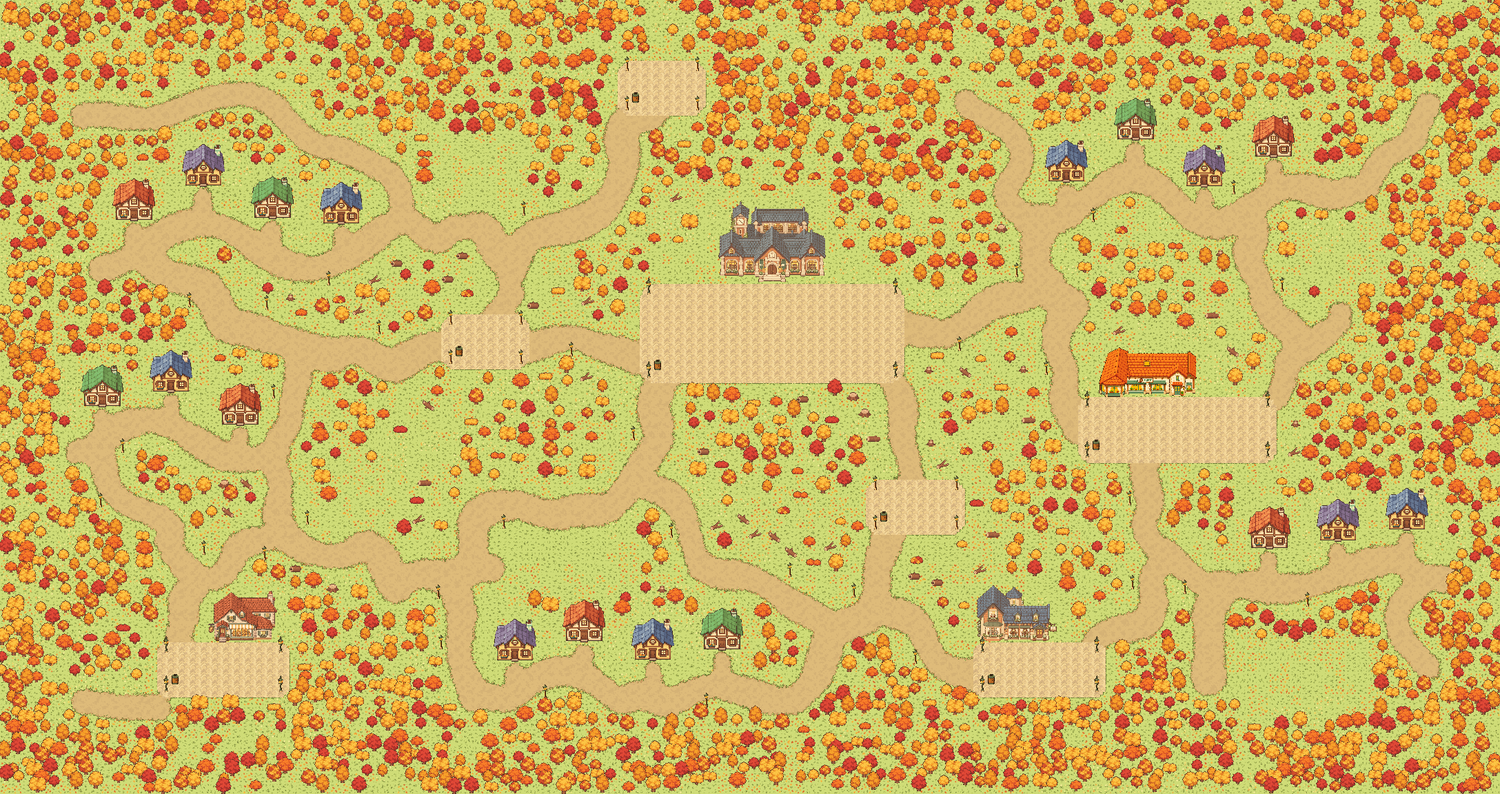
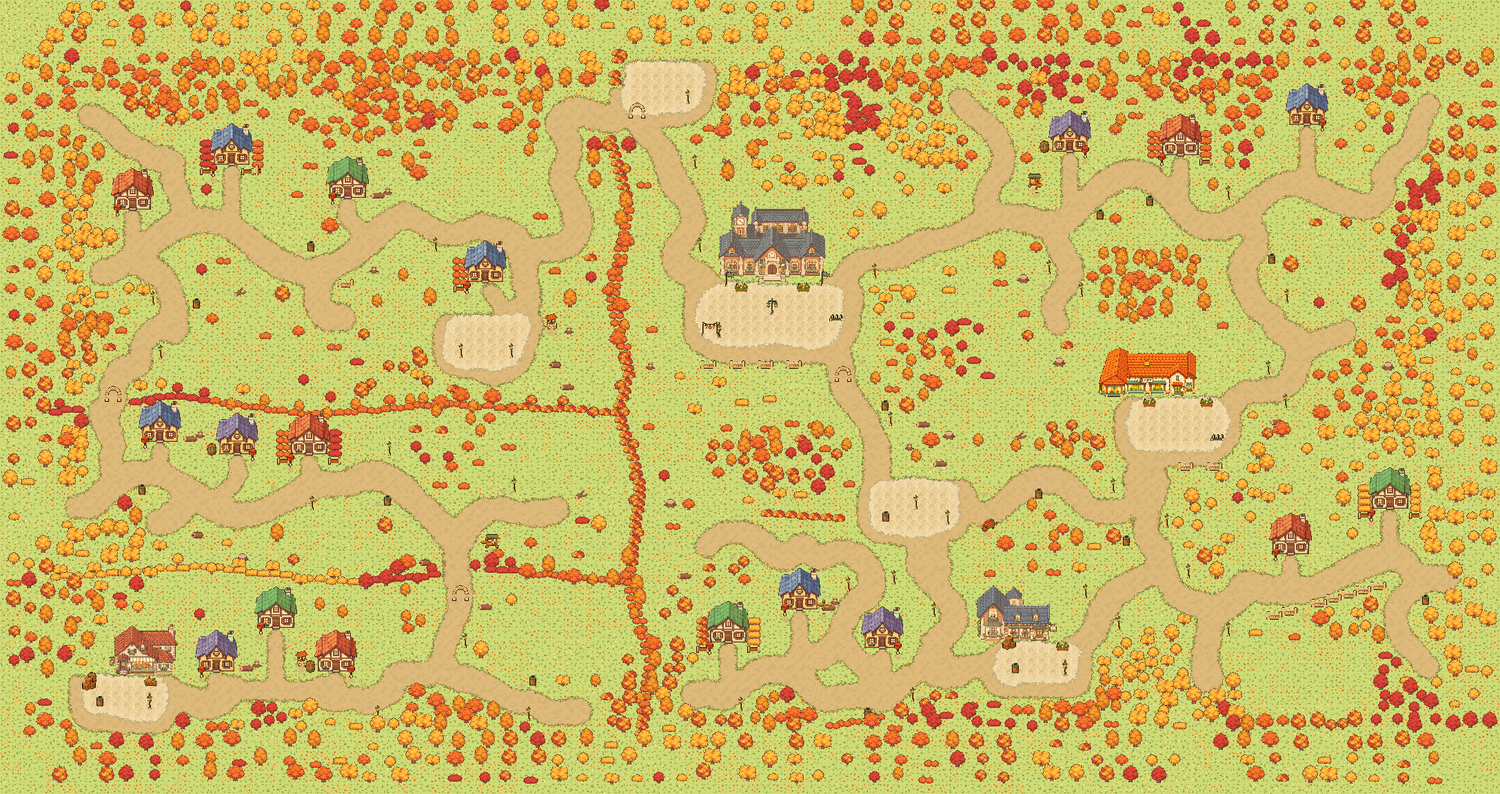
Docs: the polish pass (numbers, new rules, ambient, measured, what is still weak) and the new overview beside the first
Claude-Session: https://claude.ai/code/session_01AYnvDD8wfvRrMANqYiR2z4

diff --git a/docs/study/town.md b/docs/study/town.md
@@ -1,17 +1,19 @@
 # The town (the world, web)
 
 An open-air autumn town in the lofi.town spirit: **136 x 72 ground tiles = 4352 x 2304 art px, about 10 x 8.7 screens** at the library's zoom, narrow tan paths
-winding between a grand library, a cafe, a bakery, a bookshop, 18 cottages in five neighbourhoods, three groves, five viewpoints and a forest at the edge.
+winding between a grand library, a cafe, a bakery, a bookshop, 18 cottages (five streets, a courtyard with a well, one house tucked in a grove), three groves, five viewpoints and a
+forest that thins from the edge. Hedge rows and walls of trees divide it into districts that are joined only at gates, so the way from the library to the bakery is a 79 second walk.
 Web only, dev page only: `/study/town/dev` (404 in a production build, as `/study/library/demo` is, unless the build had `NEXT_PUBLIC_TOWN_DEV=1`, see
-"Measured"). `src/components/landing/cafeScene.ts` keeps the homepage's deterministic hash (`scratchpad/mv/hero-det2.js`, 4 viewport modes): identical to base.
+"Measured"). `src/components/landing/cafeScene.ts` keeps the homepage's deterministic hash (`scratchpad/mv/hero-det2.js`, 4 viewport modes): identical to base (not touched in the polish pass either).
 
 This replaces the first district (a rectangular path ring with houses beside it; the founder: "I don't like that"). Its engine, movement, sit-spot model and
-art are kept; its blueprint, ring and edge-piece autotiler are gone.
+art are kept; its blueprint, ring and edge-piece autotiler are gone. **The polish pass** (this file's "Polish pass" section) answered the founder's review of the first full map:
+a soft forest edge, a dressed meadow, small plazas, no blobs, staggered houses, a longer walk, ambient life, a faster raster path, a quicker first load.
 
 ```bash
 npm run town:build     # tools/town/world.json + art -> public/town/v1/ (refuses to write a map the validator rejects)
-npm run town:test      # 34 tests (the place machine included), node:test via tsx, no browser
-npm run dev            # then /study/town/dev?bots=4   (?body=fox|capybara|...|person  ?debug=1  ?furniture=0  ?map=0  ?hz=30|60|auto)
+npm run town:test      # 49 tests (the place machine and the ambient layer included), node:test via tsx, no browser
+npm run dev            # then /study/town/dev?bots=4   (?body=fox|capybara|...|person  ?debug=1  ?furniture=0  ?map=0  ?hz=30|60|auto  ?tod=dawn|day|evening|night  ?backing=0.5..1)
 python3 tools/town/preview.py out.png 0.3     # a flat picture of the compiled map (material, building boxes, trees, spots) for editing the blueprint
 python3 tools/art/landmarks.py                # the grand library, bookshop and bakery cut from docs/study/art/source/*.webp
 NEXT_PUBLIC_TOWN_DEV=1 npm run build && npm start     # a production build that serves the dev page (measurement only; never set in a deploy)
@@ -21,12 +23,13 @@ NEXT_PUBLIC_TOWN_DEV=1 npm run build && npm start     # a production build that 
 
 | | |
 |---|---|
-| `tools/town/world.json` | The authored world: `seed`, size, bounds, landmarks (position, door, plaza), placeholder boxes, neighbourhood streets, groves, viewpoints, free junctions, loop count, bench and lamp spacing, plaza furniture, hubs, wood patches, furniture types. |
-| `src/lib/town/plan.ts` | The path planner (A*, cutting, spline, meander, material grid, run-length coding). |
+| `tools/town/world.json` | The authored world: `seed`, size, bounds, landmarks (position, door, plaza shape), placeholder boxes, neighbourhoods (street + houses with their own `x`, `lead`, `lane`, `garden`), courtyards, single houses, belts (hedge rows and walls of trees, with gates), groves, viewpoints, free junctions, loop count, `directness`, `widthCap`, `forest` numbers, bench and lamp spacing, plaza furniture and dress, hand placed dress, hubs, wood patches, furniture types. |
+| `src/lib/town/plan.ts` | The path planner (A*, cutting, spline, meander, material grid, run-length coding), belts as obstacles, plazas with an apron, the distance-field width clamp. |
 | `src/lib/town/worldgen.ts` | `compileWorld`: the generator. Deterministic from `seed`. |
 | `src/lib/town/ground.ts` | The per-pixel ground painter (ragged edges), shared by the engine, the overview and the tests. |
 | `src/lib/town/validate.ts` | The validator `town:build` and the tests assert. |
-| `src/lib/town/objects.ts` | Trees, bushes and logs live in the JSON as numbers (`scatter`); `allObjects(d)` expands them. |
+| `src/lib/town/objects.ts` | Trees, bushes, logs, belts and dressing live in the JSON as numbers (`scatter`, flag 0 wood, 1 treeline, 2 belt, 3 dress); `allObjects(d)` expands them. |
+| `src/components/town/ambient.ts` | Falling leaves, chimney smoke, the hour's tint and the lamp glow (code drawn). |
 | `src/lib/town/place.ts` | `Place = town \| interior(id)`, the state machine for doors. |
 | `src/lib/town/{types,rng,movement,collision,nav,chunks,world}.ts` | As before (see below), `nav.ts` now has a typed-array A*. |
 | `src/components/town/{TownEngine.ts,TownDev.tsx,TownInterior.tsx,Minimap.tsx,town.css}` | The canvas engine, the dev page, the room behind a door (lazy chunk), the map and hubs. |
@@ -59,48 +62,67 @@ Integer scale `k = round(device width / want)`, `want` 400 art px (240 under 560
 
 ## The generator (`worldgen.ts`, `plan.ts`)
 
-1. **Landmarks and placeholders** are placed at the blueprint's tile positions; each landmark gets a paved plaza in front of its door (its top edge at the sprite's bottom,
-   centred on the door, rounded corners). Buildings and placeholder boxes are obstacles.
-2. **Neighbourhoods.** Each has a `street` (control points, west to east) that the planner makes meander, and a list of houses. Houses stand NORTH of the street
-   (the art's doors face south), `gap` tiles apart, 2.1 tiles back from the street's edge, each with a spur (a 1.6 tile path) from its door to the street.
-   Only a house north of an east-west stretch can have its door on a path, so a street should run roughly east-west.
-3. **The network.** Nodes: plaza centres, street ends, groves, placeholder fronts, free junctions (`hubs`). A minimum spanning tree (Kruskal, edge weight = distance with a seeded
-   wobble, streets pre-joined), then `loops` more edges: the pairs whose network distance is longest relative to the crow flies (ratio over 1.4). Each edge is routed by
-   **A\* on the 1 tile grid** (8 neighbours; cost 1 + 1.6 x a seeded smooth noise, so it wanders; 0.45 on existing path, so it merges; obstacles dilated by 2.2 tiles, the
-   map edge by 6). A route that runs along the existing network is **cut**: only the off-network stretches become edges, each starting and ending on the network (a clean T).
-   The stretch is decimated, run through Catmull-Rom, then a **sine meander** across the line (amplitude 0.8 to 1.8 tiles, wavelength 12 to 20, tapered 4 tiles at each
-   end, switched off where it would reach an obstacle): gentle S-curves, no long straight run. Then **dead-end footpaths** to the viewpoints (a bench with a view).
-4. **Material.** Every sample stamps a disc (half width 1.1 to 1.6 tiles, varying slowly: 2.2 to 3.2 tiles wide) into an 8 px grid (0 grass, 1 path, 2 plaza), plazas last.
-5. **Furniture.** Plaza sets from the blueprint; plaza edges (benches facing in, a lamp at each corner, a bin); along every path a bench every 8.5 tiles on alternating sides
-   facing the path, and every 15 tiles on trunks and streets a lamp with a bench beside it; a bench, a planter and a lamp at every cottage; two benches at each viewpoint.
-6. **Trees.** Path-side trees first (sparse, golden, 1.6 to 4 tiles back), then the forest: a density that is full at the map border (13 tiles), clumps inland from a
-   seeded noise, and nine `woodPatches` that close the meadows between paths. Bushes behind houses, logs and bushes 36 to 150 px from the paths. A decoration treeline
-   outside the walkable bounds (it does not block; the bounds do). Blocking trees keep 24 px between footprints, 74 px from a building's foot, off doors, paths and plazas.
-7. **Healing.** Sealed pockets of walkable cells are removed by deleting the tree that closes them (0 needed in the committed map).
-8. **Output.** Hubs (Library, Cafe, Bakery, Bookshop, Plaza, Park: a walk-to point and a ring of five teleport points), bot routes (nodes every 6 tiles along every path),
-   the material grid run-length coded, sit spots with registry ids.
+1. **Landmarks, placeholders, belts.** Landmarks and placeholder boxes are placed at the blueprint's tile positions; each landmark gets a paved plaza in front of its door (its top edge at the sprite's
+   bottom, centred on the door). **Belts** (`belts`: a polyline from one end on the map edge or on another belt to the other, with `gates`) are obstacles for the planner, open only 3.4 tiles round each gate.
+2. **Plazas** are a rounded rectangle whose paved edge wanders (a seeded noise, up to `rag` tiles, the top band against the building stays straight) with a **worn dirt apron** `apron` tiles wide
+   round it. The library's is 14 x 6 (round 2.6), the cafe's 9 x 5, the bakery's and bookshop's 8 x 4 (it was 24 x 9, 18 x 6 and 12 x 5).
+3. **Houses.** A neighbourhood is a meandering `street` and houses NORTH of it (the art's doors face south), each with its own `x`, `lead` (the front yard, the spur's length, 0.4 to 3.2 tiles), an optional
+   `lane` (the spur bends sideways) and `garden` (a fence along the front with a gap where the spur comes through, hedges at the sides, a mailbox at the gate). The house stands clear of the street's top edge
+   along its whole width (the street wanders). **Courtyards** (`courtyards`): two houses flank a lane, one stands behind it, a well beside the middle one's spur; every door faces south onto the lane, and
+   the cluster is joined to the network by the lane's node. **Single houses** (`singles`) are placed first and their spur is routed to the nearest path afterwards. Doors face south only, so every house stands north of a path;
+   the layout copes by giving each a different spur (a yard on the street, a set back house, a lane, a courtyard, a house up a side path) and by never putting a house south of what it opens onto. Colours never repeat in sequence.
+4. **The network.** Nodes: plaza centres, street ends, groves, placeholder fronts, belt gates, courtyards, free junctions (`hubs`). A minimum spanning tree (Kruskal, edge weight = distance with a seeded
+   wobble, streets pre-joined; a pair a belt closes is skipped and another pair joins the pieces), then `loops` more edges (the pairs whose network distance is longest relative to the crow flies), then a
+   **directness pass**: for the hub pairs (library, cafe, bakery, bookshop, park) that no belt separates, a pair whose path is more than `directness` (1.35) times the crow flies gets a path of its own
+   (A* with the existing network dear, so it does not hug the winding one). Each edge is routed by **A\* on the 1 tile grid** (8 neighbours; cost 1 + 1.6 x a seeded smooth noise, 0.45 on existing path;
+   obstacles dilated by 2.2 tiles, eased to 1.5 then 1.0 in a tight corner; the map edge by 6). A route along the existing network is **cut** (only the off-network stretches become edges, a clean T; no route
+   joins a spur within 2 tiles of its ends, so a trunk never ends under a door). The stretch is decimated, run through Catmull-Rom, then a **sine meander** across the line (amplitude 1.0 to 2.2 tiles,
+   wavelength 12 to 20). Then **dead-end footpaths** to the viewpoints.
+5. **Material.** Every sample stamps a disc (half width 1.05 to 1.35 tiles: 2.1 to 2.7 wide) into an 8 px grid (0 grass, 1 path, 2 plaza). **Belts are carved** (any path cell on a belt tile but not at a gate goes), then
+   **the distance-field clamp** (`clampWidths`, cap 1.65 tiles): the inscribed radius of every path cell is found (exact distance transform); a cell under a disc of radius T (the biggest inscribed disc that covers it, found from the
+   local maxima of the distance, the medial axis) is kept only if it is at least T minus the cap deep, so a junction blob is trimmed to a band 3.3 wide round its spine, a neck that joins a thin path to the blob stays, and
+   everything thinner than the cap is untouched; specks of fewer than 14 cells go. 14 blobs over 3.2 tiles in the first map, 5 now; the widest anywhere is 3.75 (the validator's cap is 3.8).
+6. **Belt visuals and what blocks.** A belt is drawn as bushes every 17 to 31 px (closer along a vertical run, the bushes are wide and shallow) with trees over them (a wall of trees every 30 to 60 px, a hedge row one in 70 to 100),
+   its colour family changing every 14 tiles (gold, amber, mixed, a stretch of red), open where a path crosses. **What blocks is a continuous strip of 16 px squares every 8 px under it** (`walls` in the data, 630 of them):
+   the drawn bushes are shallow, a vertical row of them would leave gaps a walker slips through. A strip square is left out where a path or a plaza is. A gate with a vertical path gets a stone arch
+   (two slim pillars of collision), one with a horizontal path a signpost.
+7. **Furniture and incidents.** Plaza sets and edges (benches facing in, lamps at the bottom corners, a bin; the way in at a path's mouth is kept clear, `lanePts`), plaza dress from the blueprint (`plazaDress`: relative to
+   the door's entry), benches along every path (one in 6.6 tiles, a bin or a lamp beside 5 in 10), a lamp with a bench every 15 tiles. **Incidents** (all existing sprites): gardens' fences, hedges and mailboxes,
+   a mailbox at every cottage, a planter, a lamp, a bench, a log pile or a barrel by each door, wells at the courtyard and the Quiet Grove, the apple cart at the orchard, stone wall runs along level path stretches
+   (the art is front on: a wall only runs left to right; vertical runs would need art), hedge rows along others, a low wall along the library's and cafe's plaza, flags at the library, string lights, bike racks,
+   barrels, crates, planters by the shop doors, **noticeboards and signposts at the 4 most separated junctions** (routes that end on another path). Props go on the grass, never on dirt; where one does not fit it moves to the nearest free
+   spot within a few tiles or is dropped (4 of the plaza's are, counted in `notes.dressMissed`).
+8. **Worn ground** (`worn`: x, y, radius, 95 of them): dirt showing through the grass at every cottage door, at most benches and at the noticeboards, wells and the cart.
+9. **Trees.** A density that is dense in a belt of 4.5 tiles at the very edge (the walkable edge; the decoration treeline is outside it), falls smoothly to nothing by 12 tiles, with clumps and
+   clearings in the gradient (value noise) and inland clumps. A tree is dropped unless its canopy ellipse (twice as wide as tall, scaled by the sizes) is clear of the others (dense 1.06 times their radii apart, down to
+   0.86, so canopies touch but are not a carpet) as well as the trunks being 24 px apart; size follows density (large where it is thick, medium and bushes at the fringe). **Colour**: a low frequency noise
+   makes groves of one family (gold 40 percent, amber 26, mixed 16, gold again), a high one a few red maple groves, with 10 to 14 percent contrast trees. The decoration treeline outside the bounds is three staggered
+   rows 0.9, 2.4 and 3.9 tiles out (it does not block; the bounds do). Blocking trees keep 24 px between footprints, 74 px from a building's foot, off doors, paths and plazas.
+10. **Healing** removes the tree that closes a sealed pocket (never a belt: that is a build error; 0 in the committed map).
+11. **Output.** Hubs, bot routes, the material grid run-length coded, the walls, the worn discs, sit spots with registry ids.
 
-`seed` (20260925) and the blueprint are committed, and so is the generated output (`public/town/v1/town.<hash>.json`); a test rebuilds from the seed and compares bytes
+`seed` (20260925, kept: the layout is better by design than by seed) and the blueprint are committed, and so is the generated output (`public/town/v1/town.<hash>.json`); a test rebuilds from the seed and compares bytes
 (another seed gives other paths). To change the town: edit `tools/town/world.json`, `npm run town:build`, `python3 tools/town/preview.py`, look.
 
 ## Ground rendering (`ground.ts`)
 
 The authored edge pieces only fit straight runs (no T, no end cap, no curve), so paths are cut in code. Per pixel: the material grid's coverage blurred 3 x 3, sampled
 bilinearly, plus a seeded noise (a hash at 1 px and a value noise at 5 px), thresholded at 0.5: **soft tufty edges that wander about 5 px each side of the 8 px cell
-outline**. Fill: grass from the atlas's grass tiles (flowers in drifts where a value noise is high, leaves within 3 tiles of a tree, a flip or transpose by hash), path from the atlas's
-dirt tiles **lifted 55% toward the reference's pale tan** (238, 214, 150), plaza from the one clean herringbone tile (`plaza_01`) lifted 50% toward (244, 228, 184), straight cut. A rim:
-the path's outermost pixel in the dirt's own darker tone, grass tufts (a dark green) on the grass side of the edge and the odd one two pixels out. Blocks of 8 x 8 px
-whose neighbourhood is all grass or all one solid material skip the per pixel test. A chunk takes about 30 ms to paint (node), so the engine paints the chunks the camera is about to need
+outline**. **The paving's edge is ragged too** (a second coverage, the plaza's alone, thresholded with the same noise: paving against dirt apron wanders, it is no longer a straight cut). Fill: grass from the atlas's grass tiles (flowers in drifts where
+a value noise is high, leaves within 3 tiles of a tree, a flip or transpose by hash), path from the atlas's dirt tiles **lifted 55% toward the reference's pale tan** (238, 214, 150), plaza from the one clean herringbone tile
+(`plaza_01`) **lifted 62% toward (244, 228, 184) in the middle of the paving and 86% at its edge** (a distance transform of the paving fades it toward the dirt), with **a stone coloured border pixel** round it. A rim: the path's outermost pixel in the dirt's own darker tone, grass tufts
+(a dark green) on the grass side of the edge and the odd one two pixels out. **Worn ground**: discs from the data (`worn`), each a dithered mix of grass toward a dirt tone (more toward the middle, noise in the edge), per tile lists so a pixel
+tests two or three discs at most. Blocks of 8 x 8 px whose neighbourhood is all grass or all one solid material skip the per pixel test. A chunk takes about 30 ms to paint (node), so the engine paints the chunks the camera is about to need
 **one 64 row slab a frame** (about 3 ms; the cache holds 12), and only an unpainted chunk in view is painted at once (after a teleport, behind the fade). Chunks are still
 blitted scaled, no per frame cost.
 
 ## Navigation and A*
 
 The whole map is 272 x 144 navigation cells (39k). `nav.ts` has its own typed-array A* (octile heuristic, buffers reused, a diagonal needs both orthogonals open) and string-pulls the
-result over the 8 px cells as before. A walk across the map expands about 1.1k to 1.3k nodes (a unit test counts them; random bot-node pairs: at most a few thousand); warm it
-takes 0.3 to 0.5 ms and the whole `plan` (A* + pulling) 3 to 5 ms; no hierarchical step is needed. A walk is up to 400 points (`PATH_CAP`). **Walking time** library plaza to the bakery's: 28 s straight
-across the meadows and woods (1960 px), **47 s following the paths** (3270 px): the founder asked for 60 to 90; with grass walkable the shortcut is real. Making it longer means
-denser woods between districts (`woodPatches`) or a farther bakery; a click-walk takes the straight way.
+result over the 8 px cells as before. A direct walk across the map expands about 200 to 1.3k nodes (0.3 to 1 ms); **a walk the belts force the long way round (library plaza to bakery plaza: 17k of the 39k cells, cafe to bakery 22k) takes 18 to 32 ms warm in node**, a one-off hitch at a click (two dropped frames): the next step, if it is felt on a device, is a hierarchical A* over the districts (the gates), not a weight (weighted A* was measured and does not help here: 66k expansions with re-expansion for cafe to bakery). A walk is up to 400 points (`PATH_CAP`). **Walking time** library plaza to the bakery's: **79 s following the paths** (was 47) and 65 s by the shortest way the belts leave (was 28 s straight across the meadows), through the north gate, along Orchard Row, down the far west gate and east
+along the second terrace to its gate and back west to the bakery. The brief's "shortcuts at least 1.5 times slower than the path or blocked" cannot hold as a ratio of times (a route over grass is never longer than the paths it may leave, so the
+shortcut is never slower than the path); what is measured is the other way round: **the path takes at most 1.39 times the shortest walk for every one of the 15 hub pairs (mean 1.17)**, and for the pairs a belt separates 1.18 to 1.25
+(the walk is the path, the belts leave no shortcut); validator rule `ROUTE_RATIO_MAX` 1.5.
 
 ## Doors and interiors (`place.ts`, `TownDev.tsx`, `TownInterior.tsx`)
 
@@ -131,61 +153,96 @@ rectangle (WebKit risk), checked **pixel identical in Chromium over 360 random c
 point and a mask costs a second pass per person). `tools/movement/measure.mjs`: 0 scored failures for the library, the cafe (`--room cafe`), `--dpr 2` and `--me fox`.
 You are drawn again, see-through at 42%, on top of whatever covers you (a roof, a wall, a canopy), so you are never lost behind a house or a tree.
 
-## Data format (`public/town/v1/town.<hash>.json`, `TownData` in `types.ts`, version 2)
+## Data format (`public/town/v1/town.<hash>.json`, `TownData` in `types.ts`, version 3)
 
 * `mat {cols, rows, rle}` the material on an 8 px grid, run-length coded `[value, run, ...]`, row major (0 grass, 1 path, 2 plaza); `tiles` the atlas indices the painter uses; `groundCols`.
 * `objects[]` `{id, kind, sprite, x, y, sortY, sx, sy, block, foot, zone?, door?, type?, ph?}` for buildings, furniture, props and placeholders. `door {kind: library|cafe|bakery|bookshop|cottage, rect, entry, trigger, label}`.
-  `scatter {names, v}`: trees, bushes and logs as `[name, x, y, treelineFlag]` numbers (`allObjects` expands them; the flag marks the decoration treeline, which does not block).
+  `scatter {names, v}`: trees, bushes, logs, belt pieces and dressing (lamps, fences, mailboxes, walls...) as `[name, x, y, flag]` numbers (`allObjects` expands them; flag 0 wood, 1 decoration treeline which does not block, 2 belt, 3 dress); sprites with `solids` (the arch, the string lights) block with those rects, not one lump. `walls` flat `[x, y, w, h, ...]` the strip under every belt, `worn` flat `[x, y, r, ...]`.
 * `sprites{}` the used sprites with atlas rects, anchors, `foot`, `block`, `roof`, `door`, `step`, `entry`, `trigger`; atlases `ground|nature|cafe|cottage|landmark|props`.
 * `spots[]` `{id, key, object, at, stand, face, pose, depth, zone}` as before; `paths[]` the centre lines (px) with kind (trunk, street, spur, foot) and mean half width (tiles); `plazas[]`; `hubs[]`;
   `botNodes`/`botLinks`; `zones`; `placeholders`; `spawn`; `stats`.
 
-Size: the JSON is 188 KB (gzip 45 KB; 2500 objects: trees are numbers). Atlases over the wire (gzip): ground 29 KB, landmark 44, cottage 13, cafe 11, nature 10, props 17, premade people 24: the town's own files total about 190 KB.
+Size: the JSON is 164 KB (gzip 43 KB; 1994 objects, 1276 of them trees: trees, bushes and props are numbers; it was 188 KB and 45 KB). Atlases over the wire (gzip): ground 29 KB, landmark 44, cottage 13, cafe 11, nature 10, props 17, premade people 24: the town's own files total about 190 KB.
 
 ## Validator (`validate.ts`; `town:build` refuses a map it rejects; the tests assert on the real map)
 
 Spawn free; every door's entry reachable from the spawn and standable (22 doors); **the path network (path and plaza cells) is one connected piece**; no sealed pocket of more than 4 open
-navigation cells (0); no footprint on a path or plaza cell (trees, bushes, logs, buildings: 0); **every path 2 to 3.5 tiles wide** at every sample that is not within 3.6 tiles of another path,
-a plaza or an end (the sampled range in the committed map is 2.0 to 3.5); **no 12 tile stretch within 0.4 tiles of its chord** (the least is 0.57) and no turn over 100 degrees within 3 tiles (the sharpest is 57);
-every door has path at its entry; blocking objects keep 24 px apart; cottages 3 tiles apart; every sit spot has a stand point that fits, is reachable and within 64 px of the seat; **at least 120 spots at 1.5 to 2.5 a screen**
-(191 spots, 2.17 a screen); ids and keys unique. It can fail (tests seal a door in and cut the network with a ditch).
+navigation cells (0); no footprint on a path (dirt) cell, and none of a tree, bush, log or building on paving (0; an arch straddles its path on purpose); **every path at least 1.9 tiles wide** (the march along the normal, away from other paths
+and plazas) **and, new, at most 3.8 tiles wide ANYWHERE, junctions and bends included** (the inscribed diameter from an exact distance transform, everywhere but within 3.2 tiles of a plaza; the committed map's widest is 3.75);
+**no 12 tile stretch within 0.25 tiles of its chord** (the least is 0.29; it was 0.4 until the direct paths, which are meant to be direct) and no turn over 100 degrees within 3 tiles (the sharpest is 79);
+every door has path at its entry and **a clear apron** (nothing within 12 px either side and 10 to 24 px in front of its entry); blocking objects keep 24 px apart (belt pieces are exempt: they are continuous on purpose; dressing is exempt);
+cottages 3 tiles apart (a courtyard's 1.5); every sit spot has a stand point that fits, is reachable and within 64 px of the seat; **at least 120 spots at 1.5 to 2.5 a screen** (139 spots, 1.58 a screen).
+**New, the route rules**: for every one of the 15 pairs of the six hubs the shortest walkable route (`Nav`) and the route along the paths only (a second `Nav` with the grass closed, same string pulling) must both exist, **the path may be at most
+1.5 times the shortest walk** (the metric `worstRouteRatio`; 1.39 now, it was 1.68 for library to bakery), and **library plaza to bakery plaza must take 60 to 90 s along the paths** (79 s; 70 art px a second). **New, the incident rules**: every prop a person
+should walk up to (noticeboard, mailbox, well, cart, signpost, planter, barrel, crates, bike rack, bin: 56 of them) has a standable, reachable cell within 40 px (`access`, 0 without). Ids and keys unique. It can fail:
+the tests seal a door in, cut the network with a ditch, take the belts away (the walk is short again and the ratio fails), swell a path into a blob, wall a noticeboard in and put a prop on a path.
 
 ## Measured
 
-Headless Chromium 1280 x 800, **production build** with `NEXT_PUBLIC_TOWN_DEV=1` (`next build`, then `next start`), 4 bots, software rendering (so CPU side draw times, not GPU). | | measured |
+Headless Chromium 1280 x 800, **production build** with `NEXT_PUBLIC_TOWN_DEV=1` (`next build`, then `next start`), 4 bots, software rendering (so CPU side draw times, not GPU). Scripts: `scratchpad/polish/{perf,heap,net3g,shots}.js`. | | measured |
 |---|---|
-| Draw ms, 60 s of walking across the whole map by minimap clicks (1x CPU) | **p50 0.20, p95 0.40, max 1.1**; 59 to 60 fps; 22 chunks painted (slab by slab). Before the slabs the max was 51.8 ms (a whole chunk in one frame). |
-| 4x CPU slowdown | draw p50 1.10, p95 2.10, max 5.9; first frame 1.7 s; the display delivered 30 to 60 fps (30 most of the time): the JS side is far under the 8 ms bar, so the governor stays at 60 and the 30 is the software raster under throttle, as the library's was. |
-| JS heap after a forced GC, start / after 60 s of walking | 5.60 / 6.64 MB (+1.0 MB; the chunk canvases and atlases are not JS heap). |
-| Time to first walkable frame, 1x | 490 to 900 ms after navigation start (578 in the final run), local server, production build. |
-| Fast 3G (CDP: 1.6 Mbit/s down, 562 ms latency, cache off) | **first walkable frame at 6.8 s**; 758 KB over the wire by then in 46 requests, of which the town's own files are about 190 KB gzip (json 45, landmark 44, ground 29, premade 24, props 17, cottage 13, cafe 11, nature 10); the rest is the study app's shell (CSS, fonts, JS chunks). The page is 33 KB; the whole load at 1x is 1.1 MB in 51 requests (it also prefetches the study app's other routes). |
-| Click-walk | A* across the map 0.3 to 0.5 ms, expansions 750 to 1350 for hub to hub (worst of 60 random bot-node pairs: under 12k of 39k cells), `plan` including string pulling 3 to 5 ms warm (first call 20 to 25 ms cold). |
+| Draw ms, walking hub to hub (1x CPU, dpr 1) | **p50 0.20, p95 0.60, max 2.7**; 59.9 fps. Ambient life (22 leaves, 3 puffs: 25 `fillRect`s) costs 3 microseconds a frame (node), no allocation (a test counts the heap over 2000 frames). |
+| 4x CPU slowdown, dpr 1 | draw p50 0.8, p95 1.7; 58 fps. |
+| **4x CPU slowdown, dpr 2 (a 2560 x 1600 canvas, k 6: raster bound)** | **the first map's engine: 14 to 15 fps** (draw p95 13 ms, two full size layers: the screen canvas and the label canvas cleared and composited every frame, a full screen fill under the ground); **this engine, pinned at 60 Hz: 22 to 30 fps** (labels drawn on the one canvas, the label canvas no longer sized, the full fill skipped, same JS draw time: it was the compositor); **with the governor: it steps the backing scale to 0.75 then 0.56 (k 5, then 4; the canvas is stretched, `pixelated`) and delivers 41 to 45 fps**; pinned at 0.75 by hand, 56 fps (dev build). The night tint (a multiply fill) costs a quarter more at dpr 2 and nothing visible at dpr 1 (58 fps). |
+| The governor, honest | JS draw p95 over 8 ms drops 60 to 30 Hz (as before). **New**: frames arriving at under 62 percent of the rate asked for, three seconds running, with the draw p95 under 8 ms, is a raster bound device: the backing scale goes down by a quarter (to half at most), k follows, a `console.info` says so, `data-backing` on the canvas. Not judged for 3 s after a resize, never when `?hz=` pins the rate. It does not come back up by itself (a resize resets it). |
+| JS heap after a forced GC | 14.7 MB at the start; 12 library cycles: 18.1 to 19.6, no trend. |
+| Time to first walkable frame, 1x | 588 ms after navigation start, local server, production build. |
+| Fast 3G (CDP: 1.6 Mbit/s down, 562 ms latency, cache off) | **first walkable frame at 6.2 s (6.8 s)**, 674 to 688 KB over the wire by then in 34 to 35 requests (758 KB in 46), of which the town's own files are 179 KB (the json 43, landmark 45, ground 30, premade 26, props 17, nature 10; the cottage atlas 14 and the cafe's 11 are no longer waited for). What dominates is not the town: the study app's fonts (75 + 40 + 23 KB) and its shell's JS chunks (about 200 KB) are two thirds of the bytes. Done: the atlases are asked for at the same time as the map (their urls are in `assets.generated.ts`, so there is no wait for the json), the cottage and cafe atlases load behind the first frame (a sprite whose image has not arrived is not drawn yet), the minimap is baked when the browser is idle. The json as binary would save about 8 KB gzip of 43: not done. |
+| Click-walk | A* for a direct walk 0.3 to 1 ms (177 expansions library to cafe); **library to bakery 17.4k expansions, 18 to 22 ms warm; cafe to bakery 22k, about 32 ms** (the belts force the long way round). A one-off hitch at a click; see Navigation. |
 | Painting a chunk | 25 to 40 ms (node, warm), 8 slabs of about 4 ms; the cache holds 12. |
-| 10 enter and exit cycles (library, cafe alternating, production build) | live DOM nodes 136 constant, **detached nodes 441 constant, event listeners 374 constant**, canvases 4 constant; JS heap after GC creeps about 0.1 MB a cycle (7.9 to 8.7 MB library, 7.2 to 7.9 cafe) with no DOM, listener or canvas growth: small caches in the library room's modules, not the engine (the engine's chunk canvases are the live engine's own, checked in a heap snapshot). An earlier measurement showed 100 detached nodes a cycle: that was Playwright's `waitForSelector` handle, not the page. |
-| Tests | `town:test` 34 pass (validator, determinism, planner, ground painter, A*, collision, chunks, movement, pose cadence, and the 6 of the place machine); `library:test` 398 (0 failed); `app:test` 180; `tsc --noEmit` clean; `eslint` on every changed file clean; `next build` with `NEXT_PUBLIC_TOWN_DEV=1` passes (the unflagged build only differs in that the page is a 404). |
-| Movement harness | `tools/movement/measure.mjs`: 0 scored failures for the library, `--room cafe`, `--dpr 2`, `--me fox`. Homepage hero hashes (`hero-det2.js`, 4 modes): identical to base, two base runs identical to each other. |
+| 12 enter and exit cycles each, library and cafe (production build) | heap after GC: library 18.1 to 19.0 MB (0.08 MB a cycle with noise of 0.5), cafe 17.9 to 18.7 (0.074 a cycle, steady). **Found**: a heap snapshot diff between cycle 2 and cycle 14 shows the growth is V8's own compiled code (0.5 MB, warm-up) and 8 detached SVG icon subtrees a cycle (Blink objects with SMIL animation) that nothing in JS holds (the retainer path ends in Blink's own SVGAnimatedPath), not a cache in the room modules, not the engine (3 engines were alive in one early run: that was Playwright's `waitForFunction` returning `window.__town` as a handle, the same artefact the last round found with `waitForSelector`; the scripts return a boolean now). Left as is. |
+| Tests | `town:test` 49 pass (the validator and its new rules and how they fail, determinism, planner, the clamp, plazas, the ground painter with worn ground and the paving's edge, A*, collision, chunks, movement, pose cadence, the place machine, the ambient layer); `library:test` 398 (0 failed); `app:test` 180; `tsc --noEmit` clean; `eslint` on every changed file clean; `next build` with `NEXT_PUBLIC_TOWN_DEV=1` passes. |
+| Homepage | `src/components/landing/cafeScene.ts` is not touched by this branch (`git diff` empty), so the hero hashes (`hero-det2.js`) are the base's by construction. |
 
+## Polish pass (the founder's review of the first full map, 2 November)
+
+`docs/study/art/town/world-overview.png` is the map now, `world-overview-before.png` the first one. Per item, measured:
+
+| | before | after |
+|---|---|---|
+| 1 Forest | 2138 trees (1099 walkable + 1039 decoration), full density 13 tiles deep, salt and pepper colours | **1276 trees (933 + 343): 40 percent fewer**; a 4.5 tile belt at the edge, a gradient to nothing at 12 tiles with clumps and clearings, mixed sizes, canopies touching not overlapping; colour groves (gold, amber, a red maple grove, 10 to 14 percent contrast); hedge/tree belts as districts' borders. 426 bushes (105 before: the belts are bushes). |
+| 2 Meadows | 67 props, no fences or walls | 136 props plus 307 belt pieces: 4 fenced gardens, a mailbox at every cottage, planters, barrels, crates, 5 noticeboards and signposts at junctions, 2 wells, the cart, 4 arches, flags, string lights, bike racks, stone wall runs, hedge rows, log piles and stumps, bins and lamps by benches; 95 worn patches. Validator: 56 props with access (0 without), doors keep a clear apron, nothing on a path. |
+| 3 Plazas | library 24 x 9 (216 tiles) of loud herringbone; cafe 18 x 6; bookshop and bakery 12 x 5 | **library 14 x 6 (84), cafe 9 x 5, bookshop and bakery 8 x 4**, rounded with a wandering paved edge, a worn dirt apron, a stone border pixel, the herringbone lifted 62 to 86 percent toward pale (it was 50), flags, planters, a lamp cluster at the centre. |
+| 4 Junctions | 14 fat cores (inscribed diameter over 3.2 tiles), mean half width 1.14 | **5 fat cores**, mean half width 1.07; the widest anywhere 3.75 (3.75 by the same measure in the first map, whose blobs were measured along the normal at 4 to 5; the validator now asserts 3.8 for every cell but a plaza's connections). |
+| 5 Cottages | 4 straight rows, 2 colours of roof in sequence, spurs 1.6 tiles | 5 streets with spacings 6.5 to 10.5 tiles, spurs 0.4 to 3.2 tiles, 3 lane houses, 4 gardens, a courtyard of 3 with a well, a single house in a grove; colours never repeat in sequence. |
+| 6 Walking | library plaza to bakery plaza 47 s by path, 28 s straight | **79 s by path, 65 s by the shortest way left**; every hub pair's path at most 1.39 times its shortest walk (mean 1.17); belts close every meadow between districts. |
+| 7 Ambient | none | leaves (8 to 30), smoke from 19 chimneys, tint and lamp glow by the student's hour; see `ambient.ts`. |
+| 8 Performance | 4x CPU at dpr 2: 14 to 15 fps | 22 to 30 pinned, 41 to 45 with the governor; heap creep found and explained, see above. |
+| 9 Load | Fast 3G 6.8 s, 758 KB, 46 requests; json 188 KB | 6.2 s, 674 to 688 KB, 35 requests; json 164 KB. |
+
+## Ambient life (`ambient.ts`)
+
+Code drawn, in the town's palette, allocation free, off under `prefers-reduced-motion` (leaves and smoke; the tint and the glow are not motion and stay). **Leaves**: a pool of 30, 8 to 30 in view (one to 5200 art px squared), 2 x 2 or 3 x 1 art px squares in five autumn colours, falling 13 to 23 px a second with a sway, recycled
+at the bottom. **Smoke**: three puffs a chimney (cottages and the bakery, 19), a 3.6 s cycle, stepped (size 3, 4, 5 and opacity 0.95, 0.8, 0.58, 0.34 in whole steps, rising 24 px), only the chimneys in view. **The hour**:
+the library's `timeOfDay` of the local clock (dawn 05 to 08, day, evening 17 to 20, night 20 to 05), re-read every 30 s; `?tod=` pins it for checks. A multiply tint (peach, amber, blue; none by day) over the scene, then **lamp glow**
+(three concentric steps, additive, 40 lamps, only those in view) on top so the lamps stay bright in the dark; the glow strength is 0.3, 0.65 and 1 at dawn, evening and night.
 
 ## What is weak (honest)
 
-* **It is a designed place, but a young one.** The paths wind and branch and the landmarks sit at junctions, so the overview reads as lofi.town's winding paths across a big map; the
-  weakest part is the **meadows between paths**: big, flat and green with a few trees, where lofi.town has more small incident (fences, flowers, a bench in the grass). Nothing is wrong there; nothing happens.
-* **The plazas are big and the herringbone is loud.** The library plaza is 24 x 9 tiles of one mirrored weave tile (lifted toward pale, but still the busiest ground on the map), and its furniture is boxes.
-* **Every furniture piece is a labelled box** (placeholders until the founder's art): 140 of them, so a plaza looks like a warehouse. Seats work, art does not exist.
-* **Junctions can bulge.** Where two routes meet at a shallow angle the discs merge into a 4 to 5 tile wide blob (the validator exempts junctions); a few look like a field, not a fork.
-* **Walking time is 47 s along the paths, not 60 to 90** (28 s straight across), see above.
-* **The five neighbourhoods are 18 houses of two silhouettes in four colours**, in straight rows (the art's doors face south). They read as a village from one catalogue.
-* **Nothing is tuned for iPad or Safari**: no device run, no WebKit. The slab baking, 60 Hz and the integer source offsets are the guesses made for it.
-* The sit spots are 76 front, 67 back, 25 left, 23 right: an animal sits at its weakest on three quarters of them (`chatgpt-animal-sit-prompts.md`).
+* **Compared with lofi.town** (`images/32.png`): the map has its winding lanes, soft groves and a place at every junction, but lofi.town's meadows are denser in small things (every few tiles a fence, a flower bed, a bench in the grass,
+  a table under a tree) and its paths are narrower and more broken. Ours are a dressed village now, not a lived in one: the incidents are placed by rules (a mailbox at every gate, a barrel by a shop), which reads as design, not as accident.
+* **Vertical fences and walls do not exist** (the art is front on): garden sides are hedges, stone walls only run left to right, so a wall never turns a corner. The belts are hedge rows and walls of trees; they cannot be fences or stone.
+  A student cannot tell a gate in a hedge from the rest of it except by the path going through (arches only where the path runs vertically). The collision under a belt is a hidden strip: a gap between two drawn bushes still blocks.
+* **The 79 s walk to the bakery has a cost**: it is the long way round three terraces. A hub teleport (8 s cooldown) and the minimap's click-walk are the answer; a student who walks it sees a lot of path and a few houses, and
+  the click-walk that far costs 18 to 32 ms once (see Navigation).
+* **The shortest walk is still 65 s of the 79**: the belts are the barrier, not a slow ground. The brief's "1.5 times slower" cannot be a time ratio (see Navigation); there is no slow grass.
+* **The forest edge** reads as woods softly thinning, but the player can only walk the outer 4.5 tiles in its clearings; the belt there is dense by design. The decoration treeline outside is 343 trees in three rows: it is a hedge of canopy, not a forest.
+* **Placeholders everywhere furniture would be**: benches, picnic tables, cafe tables, the post office, florist, market, pavilion and pond are still labelled boxes (the fountain is gone from the plaza: its place is a lamp cluster). Seats work, art does not exist.
+* **Houses of two silhouettes in four colours**: the layout is staggered and clustered, the shapes are not (a barn, terraces and a long house are art that does not exist). Doors face south only, so every house stands north of the path it opens onto.
+* **Night looks muddy**: a multiply tint over the whole scene dims the ground and the sprites alike; windows do not glow (the sprites are drawn lit already). A tint per layer or lit window sprites would be better.
+* **Nothing is tuned for iPad or Safari**: no device run, no WebKit. The slab baking, 60 Hz, the integer source offsets, the backing governor and `multiply` / `lighter` blends are guesses made for it. A real iPad may deliver the full rate at dpr 2 where this software raster does not.
+* The sit spots are 43 front, 54 back, 27 left, 15 right (139): an animal sits at its weakest on three quarters of them (`chatgpt-animal-sit-prompts.md`).
 * Bots only walk (no sitting), and nothing is sent anywhere (no multiplayer).
 * Ground per frame is a blit; the baking slabs cost about 3 ms in the frame that does them. The cottage `blockRect` leaves a band north of each house where you walk behind the roof (the see-through copy handles it).
+* Not done: the json as binary (about 8 KB gzip of 43), a hierarchical A*, the 60 to 30 Hz judgement of a throttled raster by its own signal rather than by the draw time.
 
 ## Art still missing
 
 Benches (4 directions), long bench, tree-ring bench, picnic tables, cafe table with stools, study desk, umbrella desks, school-desk bench, fountain (all placeholders now);
 **interior art for the bakery, bookshop and cottages** (`docs/study/art/chatgpt-interior-prompts.md`, which also asks for the next buildings); **more building types**: post office, florist,
-market stalls, pavilion, pond and bridge (water tiles with a shore edge), fountain (the map reserves the space and a footpath for each, labelled in `?debug=1`); more house shapes
-(a barn, a row of terraces) and fences and gardens (the props atlas has fence pieces at the fine scale); seated animal sheets (four animals). The path-meets-plaza piece the district needed is no longer needed (the painter has no pieces).
+market stalls, pavilion, pond and bridge (water tiles with a shore edge), fountain (the map reserves the space for each, labelled in `?debug=1`); more house shapes (a barn, a row of terraces);
+**vertical and corner fence pieces, a stone wall that turns, a hedge with a gap, an open gate** (the props atlas has fences and a wall at the fine scale, front on only); **lit window sprites** for the night; a **chimney smoke** sheet if the
+stepped squares are not enough, falling **leaf** sprites; seated animal sheets (four animals).
 
 ## How to add a building, a street, a grove
 
@@ -193,7 +250,7 @@ market stalls, pavilion, pond and bridge (water tiles with a shore edge), founta
   `worldgen.ts` (it is `building` if listed), add a `landmarks` entry (`at` = the anchor in tiles, `door` kind, `plaza` size), `npm run town:build`. A door kind with no interior says "Closed for now";
   to give it one, add it to `interiorFor` in `place.ts` and a room to `TownInterior.tsx`.
 * **A placeholder becomes a building**: replace its `placeholders` entry with a `landmarks` entry at the same place (its footpath node is dropped with it; the plaza brings its own).
-* **A neighbourhood**: a `neighbourhoods` entry with 3 or more street control points running roughly east-west and the cottage sprites in order; keep houses 3 tiles apart and clear of other landmarks.
+* **A neighbourhood**: a `neighbourhoods` entry with 3 or more street control points running roughly east-west and its houses (`{s, x, lead, lane, garden}`); keep houses 3 tiles apart and clear of other landmarks. **A courtyard** or **a single house**: a `courtyards` or `singles` entry. **A belt**: a polyline from the map edge (or another belt) to the map edge with its `gates` (a point where a path will cross, 7+ tiles from houses and placeholders; keep nodes and hubs out of the belt: it is an obstacle); run `town:build` and read the validator's route lines (every hub pair's path and shortcut in seconds) and `python3 tools/town/preview.py` (belts dark green, dressing blue). **Dressing**: `dress` (hand placed), `plazaDress` (relative to a door's entry or a clearing's middle).
 * **A grove**: a `groves` entry (centre, clearing size) and a `plazaFurniture` set under its id. **A viewpoint**: a point in `viewpoints`. **A junction** that shapes the network: a point in `hubs`.
 * **Swap a placeholder for furniture art**: set that type's `sprite` in `furnitureTypes` (and add the sprite to the atlases) and its `cut`; spot offsets stay; ids are stable.
 * **Zones**: `zones` come from the plazas, groves and neighbourhoods; `zone` on a sit spot is the nearest.
